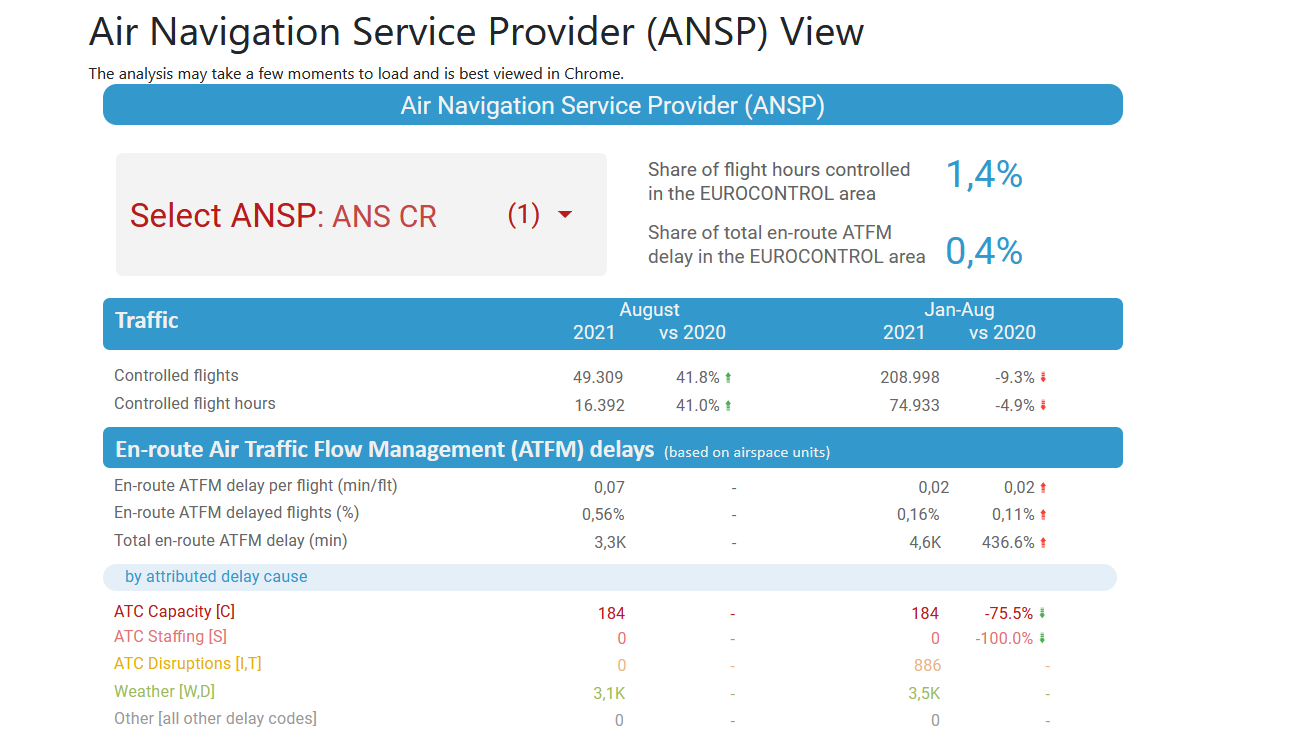
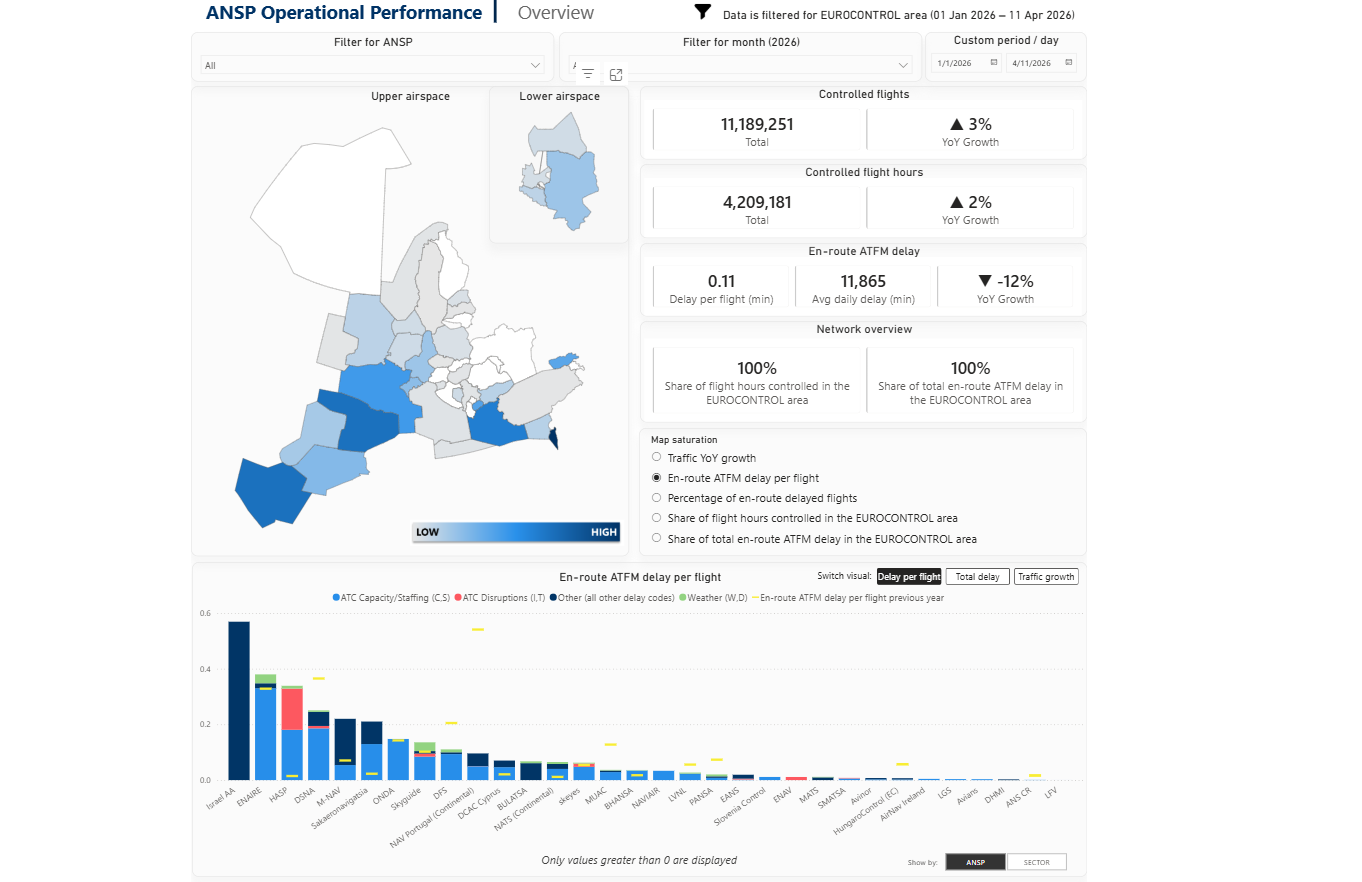
May portal release carousel + ansp dashboard update

diff --git a/content/_index.html b/content/_index.html
@@ -415,21 +415,19 @@ fullpage: true
             <div class="carousel-item active">
               <div class="card border-0 rounded">
 
-                <a href="https://www.eurocontrol.int/publication/impact-current-middle-east-crisis-european-aviation"
+                <a href="https://ansperformance.eu/dashboard/stakeholder/ansp/ansp_db/"
                   target="_blank">
-                  <img src="/images/landing/2026-03-31_AT11_middle_east.png"
+                  <img src="/images/landing/2026-05-12_ansp_db.png"
                     style="border-top-left-radius: 1rem; border-top-right-radius: 1rem; width: 100%;" alt="AT11">
                 </a>
                 <div style="padding: 1rem;">
                   <h5><a
-                      href="https://www.eurocontrol.int/publication/impact-current-middle-east-crisis-european-aviation"
-                      target="_blank">Aviation Trends #11 - Impact of the current Middle East
-                      crisis on European aviation</a></h5>
-                  <small>EUROCONTROL’s 11th Aviation Trends paper looks at how traffic flows, airspace
-                    closures and reroutings are impacting travel across the network.</small>
+                      href="https://ansperformance.eu/dashboard/stakeholder/ansp/ansp_db/"
+                      target="_blank">ANSP Performance Dashboard</a></h5>
+                  <small>The Air Navigation Service Provider (ANSP) dashboard has been redesigned with clearer visuals, date filters and daily updates - be sure to explore the latest delay and traffic metrics.</small>
                 </div>
                 <div class="card-footer pt-0">
-                  <a href="https://www.eurocontrol.int/publication/impact-current-middle-east-crisis-european-aviation"
+                  <a href="https://ansperformance.eu/dashboard/stakeholder/ansp/ansp_db/"
                     class="card-link" target="_blank">Read more</a> <i class="ml-2 fas fa-arrow-right"></i>
                 </div>
               </div>
@@ -440,21 +438,19 @@ fullpage: true
             <div class="carousel-item">
               <div class="card border-0 rounded">
 
-                <a href="https://www.eurocontrol.int/publication/performance-review-report-prr-2025" target="_blank">
-                  <img src="/images/landing/2026-03-26_prr2025.png"
+                <a href="https://ansperformance.eu/" target="_blank">
+                  <img src="/images/landing/2026-05-12_live_network_status.png"
                     style="border-top-left-radius: 1rem; border-top-right-radius: 1rem; width: 100%;" alt="PRR 2025">
                 </a>
                 <div style="padding: 1rem;">
-                  <h5><a href="https://www.eurocontrol.int/publication/performance-review-report-prr-2025"
-                      target="_blank">Just published: Performance Review Report (PRR) 2025</a>
+                  <h5><a href="https://ansperformance.eu/"
+                      target="_blank">Live status of the network</a>
                   </h5>
-                  <small>The independent Performance Review Commission (PRC) has just released its
-                    Performance Review Report 2025, evaluating European Air Traffic Management (ATM)
-                    performance across a wide spectrum of key performance areas, including safety,
-                    capacity, environment, and cost-efficiency</small>
+                  <small>The familiar live network view from our Data App is now front and center on our landing page. It provides real-time updates on ATFM delays across the network, giving you instant visibility into current conditions.
+</small>
                 </div>
                 <div class="card-footer pt-0">
-                  <a href="https://www.eurocontrol.int/publication/performance-review-report-prr-2025" class="card-link"
+                  <a href="https://ansperformance.eu/"
                     target="_blank">Read more</a> <i class="ml-2 fas fa-arrow-right"></i>
                 </div>
               </div>
@@ -515,7 +511,7 @@ fullpage: true
                 </a>
                 <div style="padding: 1rem;">
                   <h5><a href="/data/" target="_blank">Performance Data Update</a></h5>
-                  <small>February 2026 data available for download now!</small>
+                  <small>April 2026 data available for download now!</small>
                 </div>
                 <div class="card-footer pt-0">
                   <a href="/data/" class="card-link" target="_blank">Read more</a> <i

diff --git a/content/dashboard/stakeholder/ansp/ansp_db.html b/content/dashboard/stakeholder/ansp/ansp_db.html
@@ -8,23 +8,24 @@ title: Air Navigation Service Provider (ANSP) View
     
     .resp-container {
         position: relative;
+        width: 110%;
         overflow: hidden;
-        padding-top: 160.0%;
+        padding-top: 155.0%;
+        
+
+        
     }
     
     .resp-iframe {
         position: absolute;
         top: 0;
         left: 0;
-        width: 90%;
+        width: 100%;
         height: 105%;
         border: 0;
     }
 </style>
-<div>
-The analysis may take a few moments to load and is best viewed in Chrome.
-</div>
 <div class="resp-container">
-<iframe class="resp-iframe" src="https://datastudio.google.com/embed/reporting/b6749081-d98f-4c8c-9828-7691f4b0a119/page/hjss" frameborder="0" style="border:0" allowfullscreen>
+<iframe class="resp-iframe" src="https://app.powerbi.com/view?r=eyJrIjoiNDg4ZjdiMzctMDY2ZC00OTVmLTg5ZDItOGMwN2VhMjFiNTlmIiwidCI6Ijc2ZjMzYzIwLTU5NzktNDQwOC1hZGY3LThiM2M0YmU5NWU1MiIsImMiOjl9" frameborder="0" style="border:0" allowfullscreen>
 </iframe>
 </div>

diff --git a/content/dashboard/stakeholder/ansp/_index.html b/content/dashboard/stakeholder/ansp/_index.html
@@ -11,7 +11,7 @@ date: '2020-05-15'
 <div class="container">
 <div class="row">
 <div class="card-deck">
-{{% bootstrap-card-alt img="ansp_db.png" link="/dashboard/stakeholder/ansp/ansp_db" title="ANSP Operational Performance Dashboard" text="Monthly overview of operational ANSP performance across a wide spectrum of indicators.<br><br> <div class='badge-container'><span class='badge badge-secondary'>General Performance</span></div>" alt="ANSP performance dashboard" command="Resize" options="300x" class="mb-2" %}}
+{{% bootstrap-card-alt img="2026-05-12_ansp_db.png" link="/dashboard/stakeholder/ansp/ansp_db" title="ANSP Operational Performance Dashboard" text="Daily overview of operational ANSP performance across a wide spectrum of indicators.<br><br> <div class='badge-container'><span class='badge badge-secondary'>General Performance</span></div>" alt="ANSP performance dashboard" command="Resize" options="300x" class="mb-2" %}}
 {{% bootstrap-card-alt img="acc_traff_db.png" link="https://www.eurocontrol.int/Economics/DailyTrafficVariation-ACCs.html" title="Daily Traffic Variation at State and ACC Level" text="Monitor the daily traffic variation at at State and ACC level since the start of the COVID-19 crisis. <br> <div class='badge-container'><span class='badge badge-primary'>Traffic</span></div>" alt="Daily traffic @ ACCs" command="Resize" options="300x" class="mb-2" %}}
 {{% bootstrap-card-alt img="ace_db.png" link="https://www.eurocontrol.int/ACE/ACE-Home.html" title="ATM Cost-Effectiveness Dashboard" text="Analyse information and data on ANSP cost-effectiveness performance (2002-2020). <br> <div class='badge-container'><span class='badge badge-success'>Economics</span></div>" alt="ACE Dashboard" command="Resize" options="300x" class="mb-2" %}}
 {{% bootstrap-card-alt img="fin_db_2022_thmb.png" link="/economics/finance/" title="ANSP Financial Dashboard <i class='fas fa-xs fa-external-link-alt'></i>" text="Explore key financial information and indicators for European ANSPs. <br> <div class='badge-container'><span class='badge badge-success'>Economics</span></div>" alt="ANSPs Financial Dashboard" command="Resize" options="300x" class="mb-2" %}}